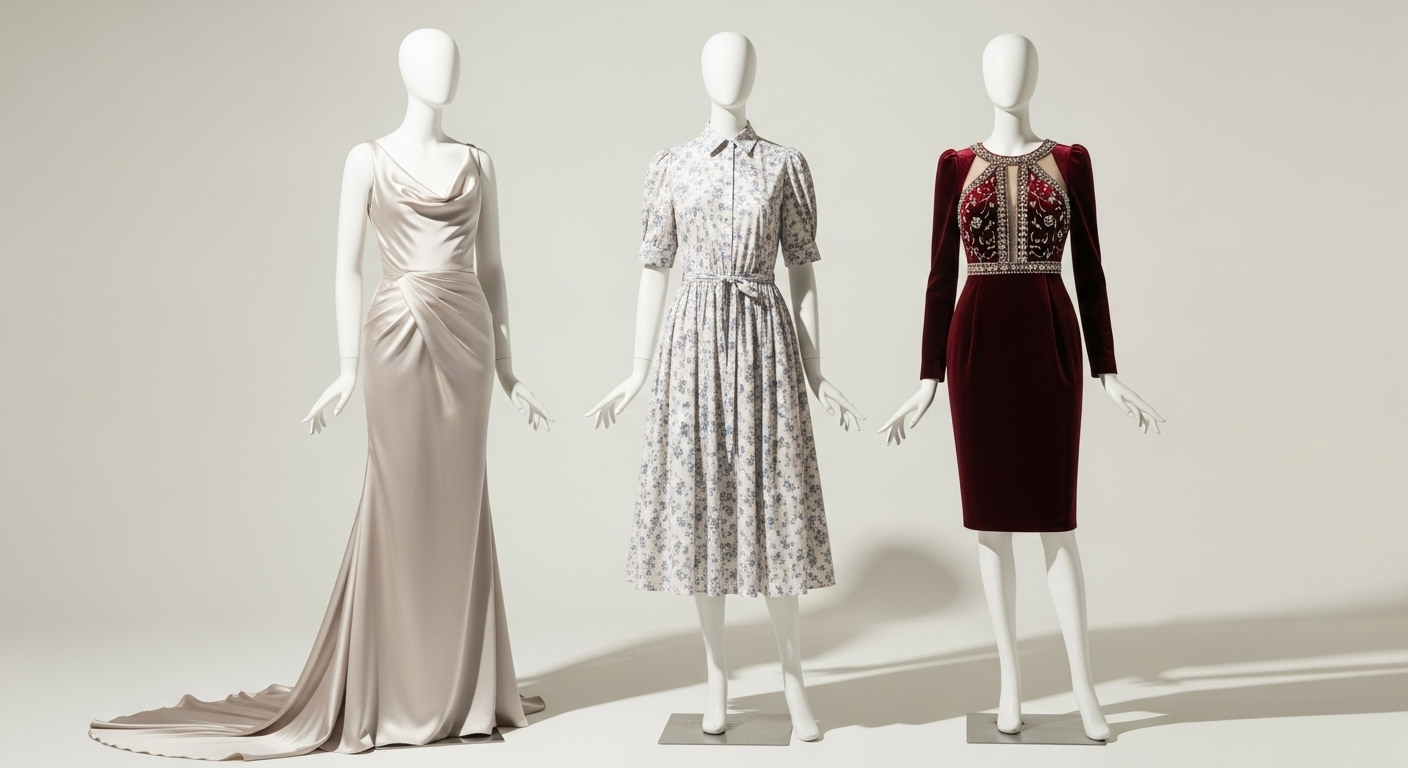
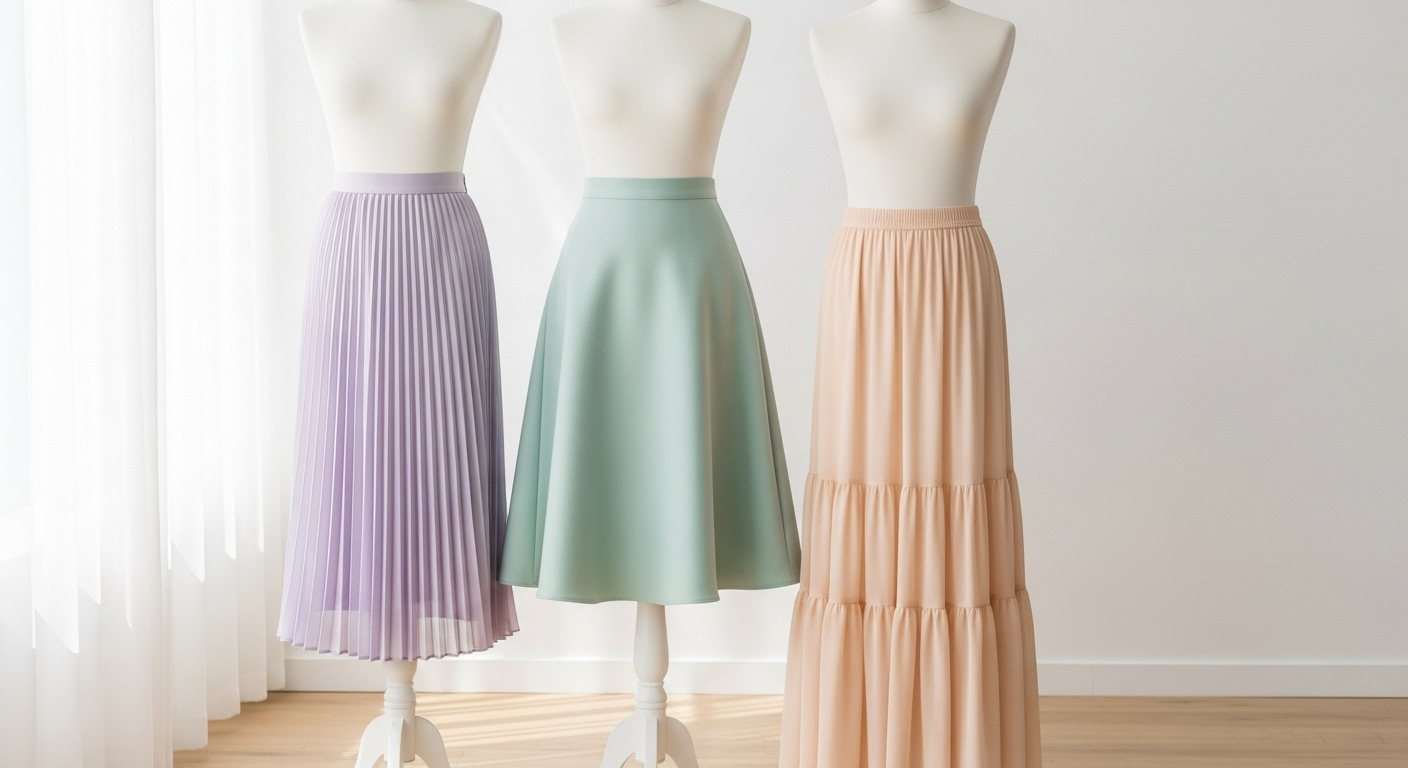
Update image categorie

diff --git a/shared/constants/categories.ts b/shared/constants/categories.ts
@@ -21,7 +21,7 @@ export const CATEGORIES_BY_BUSINESS_TYPE = {
       name: 'Robes',
       description: 'Collection de robes élégantes',
       imagePath: 'categories/robes.jpg',
-      tag: 'POPULAR',
+      // tag: 'POPULAR',
     },
     {
       id: 'pantalon',
